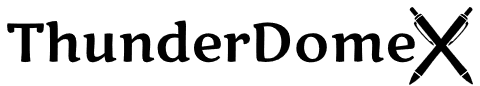
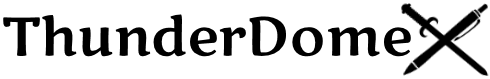
update forms added

diff --git a/td2/baseapp/templates/baseapp/base.html b/td2/baseapp/templates/baseapp/base.html
@@ -20,19 +20,13 @@
         <div class="container">
             <header>
                 <div class="row">
-                    <div class="col-md-5 list-group">
+                    <div class="col-md-3 list-group">
                         <a href = "{% url 'home' %}" >
                             <img id="logo-image" src ="{% static 'baseapp/img/tdx.png' %}" alt="Thunderdome Logo in marko one font" />
                         </a>
                     </div>
-                    <div class="col-md-5"  >
-                    </div>
-                    <div class="col-md-2"  >
-                    </div>
-            </div>
-            </header>
-            <div class="row" id="page-content">
-                {% for message in messages %}
+                    <div class="col-md-7"  >
+                    {% for message in messages %}
                     <div class="alert {{ message.tags }} alert-dismissible" role="alert">
                     <!--button type="button" class="close" data-dismiss="alert" aria-label="Close">
                         <span aria-hidden="true">&times;</span>
@@ -40,6 +34,13 @@
                     {{ message }}
                     </div>
                 {% endfor %}
+                    </div>
+                    <div class="col-md-2"  >
+                    </div>
+            </div>
+            </header>
+            <div class="row" id="page-content">
+
                 <div class="col">
 
                     {% block sidebar %}

diff --git a/td2/profiles/templates/profiles/profile.html b/td2/profiles/templates/profiles/profile.html
@@ -1,7 +1,7 @@
 {% extends "baseapp/base.html" %}
 
 {% block header %}
-    <h1>Profile: {{request.user.username}}</h1>
+    Profile: {{request.user.username}}
 {% endblock header %}
 
 {% block content %}
@@ -29,11 +29,34 @@
 
 {% if stories_context %}
 <h2>Stories</h2>
-    <ul>
+    <table>
+        <tr>
+            <th>Title</th><th>Edit</th>
+        </tr>
     {% for story in stories_context %}
-        <li><a href="{% url 'view story by slug' story.slug %>">{{ story.title }}</a></li>
+        <tr>
+            <td><a href="{% url 'view story by slug' story.slug %}">{{ story.title }}</a></td>
+            <td><a href = "{% url 'edit story' story.id %}">Edit</a></td>
+        </tr>
     {% endfor %}
+    </table>
 {% endif %}
+
+{% if prompts_context %}
+<h2>prompts</h2>
+    <table>
+        <tr>
+            <th>Title</th><th>Edit</th>
+        </tr>
+    {% for prompt in prompts_context %}
+        <tr>
+            <td><a href="{% url 'view full prompt' prompt.id %}">{{ prompt.title }}</a></td>
+            <td><a href = "{% url 'edit prompt' prompt.id %}">Edit</a></td>
+        </tr>
+    {% endfor %}
+    </table>
+{% endif %}
+
 {% endblock content %}
 
 {% block aside %}

diff --git a/td2/baseapp/templates/baseapp/create-story.html b/td2/baseapp/templates/baseapp/create-story.html
@@ -1,8 +1,16 @@
 {% extends "baseapp/base.html" %}
 {% block headtag %}
     {{ form.media }}
+    {% load static %}
 {% endblock %}
-{% block header %}Create Story{% endblock %}
+{% block header %}
+    {% if form.title.value %}
+        Edit
+    {% else %}
+        Create
+    {% endif %}
+    Story
+{% endblock %}
 
 {% block content %}
 
@@ -11,7 +19,7 @@
         {% csrf_token %}
         {% include 'baseapp/base-form.html' %}
     </table>
-    <input type="submit" value="Submit" class='btn-primary'>
+    <input type="submit" value="Submit" class='btn btn-primary'>
 
 </form>
 

diff --git a/td2/baseapp/static/baseapp/css/baseapp.css b/td2/baseapp/static/baseapp/css/baseapp.css
@@ -34,16 +34,24 @@ html {
   }
 
   img#logo-image {
-     height:48px;
-     width:240px;
+     height:45px;
+     width:245px;
 
   }
 
     #main-header {
         position:relative;
-        left:-1em;
+        left:.3em;
         padding: .5em .5em .5em 0;
     }
+
+@media (min-width: 768px) {
+    #main-header {
+        position:relative;
+        left:-3em;
+        padding: .5em .5em .5em 0;
+    }
+}
 
   #page-content > .col {
     padding-top: 7em;

diff --git a/td2/baseapp/templates/baseapp/view-story.html b/td2/baseapp/templates/baseapp/view-story.html
@@ -1,4 +1,5 @@
 {% extends "baseapp/base.html" %}
+{% load static %}
 {% block headtag %}
 
 {% endblock %}
@@ -17,5 +18,5 @@
     </div>
 
 {% endif %}
-
+<img src = "{% static 'baseapp/img/flourish.png' %}" alt="Ending typographical flourish" class="rounded mx-auto d-block" />
 {% endblock %}

diff --git a/td2/baseapp/templates/baseapp/home.html b/td2/baseapp/templates/baseapp/home.html
@@ -1,7 +1,9 @@
 {% extends "baseapp/base.html" %}
+{% load static %}
 {% block header %}
     Welcome to the ThunderDome
+
 {% endblock header %}
 {% block content %}
-
+<img src="{% static 'baseapp/img/flourish.png' %}" alt="logo" />
 {% endblock %}

diff --git a/td2/promptarena/views.py b/td2/promptarena/views.py
@@ -9,15 +9,15 @@ from django.utils import timezone
 from django.http import HttpResponseRedirect
 #from django.core.exceptions import ValidationError
 
-from django.shortcuts import get_object_or_404, render
+from django.shortcuts import get_object_or_404, render, redirect
 from django.contrib.auth.decorators import login_required
 from django.contrib import messages
 from django.utils.html import strip_tags
 
-from baseapp.forms import CreateStoryForm
+from baseapp.forms import StoryForm
 from baseapp.models import Story
 
-from .forms import (CreatePromptForm,
+from .forms import (PromptForm,
     CreateContestNewPromptForm,
     CreateContestOldPromptForm,
     EnterContestNewStoryForm,
@@ -39,7 +39,7 @@ def create_prompt(request):
     """User enters new prompt"""
     context ={}
     #create object for form
-    form = CreatePromptForm(request.POST or None)
+    form = PromptForm(request.POST or None)
      # check if form data is valid
     if form.is_valid():
         # save the form data to model
@@ -51,10 +51,32 @@ def create_prompt(request):
     return render(request, "promptarena/create-prompt.html", context)
 
 @login_required
+def edit_prompt(request, prompt_id = 0):
+    """update a prompt"""
+    # get the story to update
+    prompt = get_object_or_404(Story, pk = prompt_id)
+    contests = Contest.objects.filter(prompt = prompt_id)
+    for contest in contests:
+        if contest.status != 'UNOPENED' or 'CLOSED':
+            messages.error(request, "Your prompt is currently being used in a contest.  It cannot be edited at this time.")
+            return redirect('view prompt', prompt_id = prompt_id)
+    # create a form instance and populate it with data from the request or the :
+    form = PromptForm(request.POST or None, instance = prompt)
+    # check whether it's valid:
+    if form.is_valid():
+        form.save()
+        messages.success(request, 'Your prompt was updated successfully! Hopefully it doesn\'t suck.')
+        # redirect to a new URL:
+        return redirect('view full prompt', prompt_id = prompt.pk)
+
+    return render(request, 'baseapp/create-prompt.html', {'form': form})
+
+
+@login_required
 def create_contest_new_prompt(request):
     """User enters new contest with a new prompt"""
     #context = {}
-    prompt_form = CreatePromptForm(request.POST or None)
+    prompt_form = PromptForm(request.POST or None)
     contest_form = CreateContestNewPromptForm(request.POST or None)
     if prompt_form.is_valid() and contest_form.is_valid():
         #save w/o comitting then add user and save
@@ -90,7 +112,7 @@ def create_contest_old_prompt(request):
 def enter_contest(request, contest_id,):
     """User enters new story"""
     contest_context = get_object_or_404(Contest, pk=contest_id)
-    story_form = CreateStoryForm(request.POST or None)
+    story_form = StoryForm(request.POST or None)
     if request.method == "POST":
         if story_form.is_valid():
             words_to_count = strip_tags(story_form.instance.content)

diff --git a/td2/baseapp/views.py b/td2/baseapp/views.py
@@ -1,13 +1,18 @@
 """views for baseapp"""
 from django.http import HttpResponseRedirect
-from django.shortcuts import render, get_object_or_404
+from django.shortcuts import render, get_object_or_404, redirect
 from django.contrib.auth.decorators import login_required
 from django.contrib import messages
 
 from django.contrib.auth import get_user_model
 
-from .forms import CreateStoryForm
+from .forms import StoryForm
 from .models import Story
+from promptarena.models import Entry
+
+import logging
+logger = logging.getLogger(__name__)
+
 
 
 # Create your views here.
@@ -21,7 +26,7 @@ def create_story(request):
     # if this is a POST request we need to process the form data
     if request.method == 'POST':
         # create a form instance and populate it with data from the request:
-        form = CreateStoryForm(request.POST)
+        form = StoryForm(request.POST)
         # check whether it's valid:
         if form.is_valid():
             # process the data in form.cleaned_data as required
@@ -32,7 +37,30 @@ def create_story(request):
             return HttpResponseRedirect('create-story')
     # if a GET (or any other method) we'll create a blank form
     else:
-        form = CreateStoryForm()
+        form = StoryForm()
+
+    return render(request, 'baseapp/create-story.html', {'form': form})
+
+@login_required
+def edit_story(request, story_id = 0):
+    """update a magical story of myth and wonder"""
+    # get the story to update
+    story = get_object_or_404(Story, pk = story_id)
+    entries = Entry.objects.filter(story = story_id)
+    for entry in entries:
+        if entry.contest.status != 'UNOPENED' or 'CLOSED':
+            messages.error(request, "Your story is already in a contest.  It cannot be edited at this time.")
+            return redirect('view story by id', story_id = story.pk)
+    # create a form instance and populate it with data from the request or the :
+    form = StoryForm(request.POST or None, instance = story)
+    # check whether it's valid:
+    if form.is_valid():
+        # process the data in form.cleaned_data as required
+        form.instance.author = request.user
+        form.save()
+        messages.success(request, 'Your story was updated successfully! Hopefully it doesn\'t suck.')
+        # redirect to a new URL:
+        return redirect('view story by id', story_id = story.pk)
 
     return render(request, 'baseapp/create-story.html', {'form': form})
 
@@ -41,7 +69,7 @@ def view_stories(request):
     stories_context = Story.objects.filter(
         public_view_allowed = True
     )
-    
+
     return render(request, 'baseapp/view-stories.html', {'stories_context': stories_context})
 
 def view_stories_by_author(request, username):

diff --git a/td2/promptarena/models.py b/td2/promptarena/models.py
@@ -42,9 +42,20 @@ class Prompt(models.Model):
 
 class Contest(models.Model):
     """Contest- Actual Competition"""
+    UNOPENED = 'UNOPENED'
+    OPEN='OPEN'
+    JUDGEMENT = 'JUDGEMENT'
+    CLOSED = 'CLOSED'
+    CONTEST_STATES = [
+        (UNOPENED, 'Unopened'),
+        (OPEN, 'Open'),
+        (JUDGEMENT, 'Judgement'),
+        (CLOSED, 'Closed')
+    ]
     prompt = models.ForeignKey(Prompt, on_delete=models.SET_NULL, null=True) #Null = true to make on_delete work
     start_date = models.DateTimeField('Start Date')
     expiry_date = models.DateTimeField('Submit by Date')
+    status= models.CharField(choices=CONTEST_STATES, default='Unopened', max_length=9)
     wordcount = models.PositiveIntegerField(default=1000)
     slug = AutoSlugField(max_length=200, default='no-contest-slug', unique=True)
 
@@ -55,7 +66,7 @@ class Contest(models.Model):
 
     def is_active(self):
         '''returns true if expiry date is passed'''
-        return self.expiry_date > timezone.now()
+        return self.expiry_date > timezone.now() > self.start_date
 
     #def save(self, *args, **kwargs):
     def save(self, force_insert=False, force_update=False, using=None, update_fields=None):

diff --git a/td2/baseapp/urls.py b/td2/baseapp/urls.py
@@ -2,14 +2,16 @@
 from django.urls import path
 from django.contrib.staticfiles.storage import staticfiles_storage
 from django.views.generic.base import RedirectView
-from .views import home, create_story, view_story_by_id, view_story_by_slug, view_stories, view_stories_by_author
+from .views import home, create_story, edit_story, view_story_by_id, view_story_by_slug, view_stories, view_stories_by_author
 
 urlpatterns = [
     path('', home, name='home'),
     path('create-story', create_story, name='create story'),
-    path('<slug:slug>/view-story', view_story_by_slug, name='view story by slug'),
+    path('<int:story_id>/edit-story', edit_story, name='edit story'),
     path('<int:story_id>/view-story', view_story_by_id, name='view story by id'),
- 
+    path('<slug:slug>/view-story', view_story_by_slug, name='view story by slug'),
+
+
     path('view-stories', view_stories, name='view stories'),
     path('<str:username>/view-stories', view_stories_by_author, name='view stories by author'),
     path('favicon.ico',

diff --git a/td2/profiles/views.py b/td2/profiles/views.py
@@ -16,6 +16,7 @@ from django.utils.http import urlsafe_base64_encode, urlsafe_base64_decode
 
 from pytz import common_timezones
 from baseapp.models import Story
+from promptarena.models import Prompt
 from .forms import SignUpForm, UserUpdateForm, ProfileUpdateForm
 
 import logging
@@ -139,7 +140,12 @@ def profile(request):
     stories_context = Story.objects.filter(
         author = request.user.pk
     )
+
+    prompts_context = Prompt.objects.filter(
+        creator = request.user.pk
+    )
     context['stories_context'] = stories_context
+    context['prompts_context'] = prompts_context
     return render(request, 'profiles/profile.html', context)
 
 

diff --git a/td2/promptarena/migrations/0006_contest_status.py b/td2/promptarena/migrations/0006_contest_status.py
@@ -1,0 +1,18 @@
+# Generated by Django 3.1.4 on 2021-01-06 02:14
+
+from django.db import migrations, models
+
+
+class Migration(migrations.Migration):
+
+    dependencies = [
+        ('promptarena', '0005_auto_20210105_0955'),
+    ]
+
+    operations = [
+        migrations.AddField(
+            model_name='contest',
+            name='status',
+            field=models.CharField(choices=[('UNOPENED', 'Unopened'), ('OPEN', 'Open'), ('JUDGEMENT', 'Judgement'), ('CLOSED', 'Closed')], default='Unopened', max_length=9),
+        ),
+    ]
